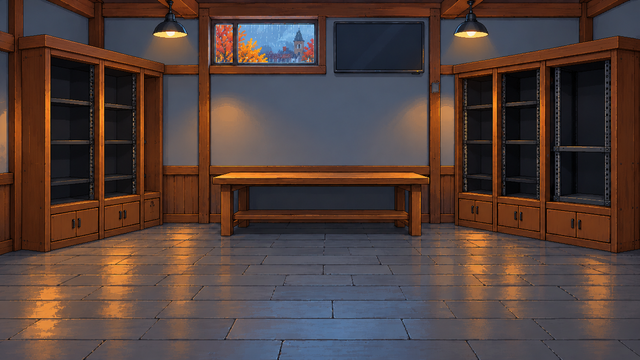
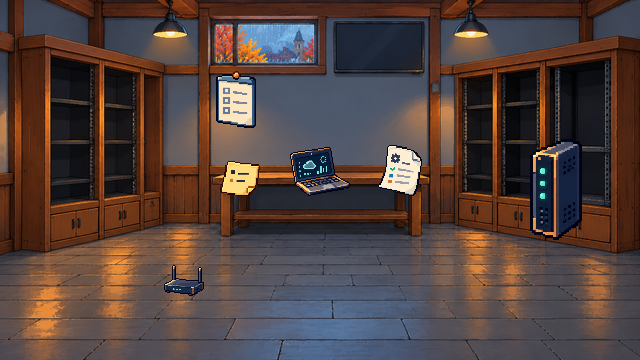
Put the real weather room behind the keys, and re-crop every portrait
The 机房 art arrived with the props painted in, so the room now stands on the
real background and the investigation points were re-measured against it: the
sticky note, the screen and the printout on the desk, the checklist on the wall,
the rack on the right, the router on the floor. Their icons stop drawing when
the picture already shows them (items[].hidden) and keep only the 「?」 marker and
the click area. Collision was re-cut to the real furniture.

While checking the dialogue, the newer portraits turned out to be cropped as
half-body shots — 小林's face filled the frame, 朵朵's was a quarter of it.
prepare-portraits.py now keeps a zoom per character and explains how to set it
for the next arrival.

diff --git a/public/case-session.js b/public/case-session.js
@@ -73,7 +73,7 @@ export function createCaseSession({ h, icon, item, layer, ui, drill = null }) {
     const size = thing.size || 30;
     const el = h("button", {
       type:'button',
-      class: `case-prop ${thing.look} ${state.seen.has(thing.id) ? "seen" : ""} ${thing.wall ? "wall" : ""}`,
+      class: `case-prop ${thing.look} ${state.seen.has(thing.id) ? "seen" : ""} ${thing.wall ? "wall" : ""}${thing.hidden ? " hidden" : ""}`,
       style: `left:calc(${thing.at[0]}px * var(--px));top:calc(${thing.at[1]}px * var(--px));width:calc(${size}px * var(--px));z-index:${thing.wall ? 1 : Math.round(thing.at[1])}`,
       'aria-label':`${state.seen.has(thing.id)?'再次调查':'调查'}：${thing.label}`,
       title:thing.label,

diff --git a/public/game.css b/public/game.css
@@ -975,3 +975,6 @@ html:has(.game-dialogue:not([hidden])) .case-hud-book {opacity:0;pointer-events:
 @keyframes perm-shake {50% {transform:translateX(3px);}}
 .lab-lamp {margin:0;padding:8px 10px;font:12px/1.6 var(--font-body);color:#ffe8b0;background:#1b2a1f;border-bottom:1px solid #2c4a36;}
 .lab-perms {padding:8px 10px;}
+
+/* A prop the background already draws: the icon steps aside, the 「?」 marker and the click area stay. */
+.case-prop.hidden svg,.case-prop.hidden img {display:none;}

diff --git a/docs/art/requests-case-rooms.md b/docs/art/requests-case-rooms.md
@@ -65,9 +65,13 @@
 
 接入完成后，接入方负责把 `samples/cases/*/workbench-case.json` 里对应 `items[].art` 换成新图，并复核 `stand` 站位与 `room.blocks` 碰撞（站位之间要留 ≥24 的间距，交互半径是 22）。
 
-## 六、阿哲的机房（`case-room-weather-keys`）：美术候选已交付，待接入验收
+## 六、阿哲的机房（`case-room-weather-keys`）：背景与道具已接入
 
-序章第四个委托「天气小助手」已经做成能走进去的房间：两个机柜、一张摆放电脑的桌子、墙上的屏幕，六件调查物都能走到。机房背景和六件透明调查道具已生成并放到目标目录，当前仍待接入方在游戏场景中核对比例、锚点和调查流程。
+序章第四个委托「天气小助手」已经做成能走进去的房间。**背景和六件道具都交付并接入了**（`public/art/pixel/case-room-weather-keys.png`，640×360，道具已经画进图里）：便签、电脑、打印件在桌上，发布清单挂在墙上，机柜在右边，路由器在地上。
+
+调查点按图重排了锚点，图标不再叠画（`items[].hidden`，只留问号标记和点击区），行走碰撞也按真图重设（可行走上边界 `top=130`，左边柜子、桌子、右边机柜各一块）。
+
+**还缺阿哲房间里的小人**：他现在还是代码画的方块占位。需要 `public/art/pixel/anim-azhe.png` + `.json`，规格同小林、朵朵、小雨（256×192，4×2 格，64×96/帧；待机 2 帧 + 一个 4 帧动作）。
 
 | 要交什么 | 目标文件 | 逻辑尺寸 | 说明 |
 |---|---|---|---|
